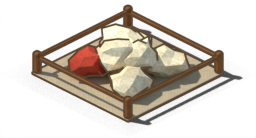
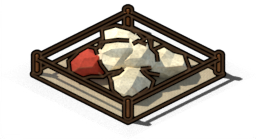
Grenier et entrepôt : contour noir plus épais pour que les cases ressortent
Claude-Session: https://claude.ai/code/session_012k6Ew1QdeaSp1xGznCLvWi

Changed region(s): [[0.0938, 0.029, 0.9688, 0.8986], [0.4375, 0.4058, 0.5, 0.4348], [0.5, 0.3768, 0.5312, 0.4058]]

diff --git a/tools/art/storage.py b/tools/art/storage.py
@@ -272,9 +272,9 @@ def _black_outline(objects):
     ls.select_border = False
     ls.select_crease = False
     ls.linestyle = bpy.data.linestyles.new("noir")
-    ls.linestyle.color = (0.04, 0.03, 0.02)
+    ls.linestyle.color = (0.0, 0.0, 0.0)
     ls.linestyle.alpha = 1.0
-    ls.linestyle.thickness = 1.0  # multiplié par l'épaisseur de rendu (0,5 x SCALE) : 2 px en 4x
+    ls.linestyle.thickness = 2.5  # multiplié par l'épaisseur de rendu (0,5 x SCALE) : 5 px en 4x
 
 
 def goods_jobs():
